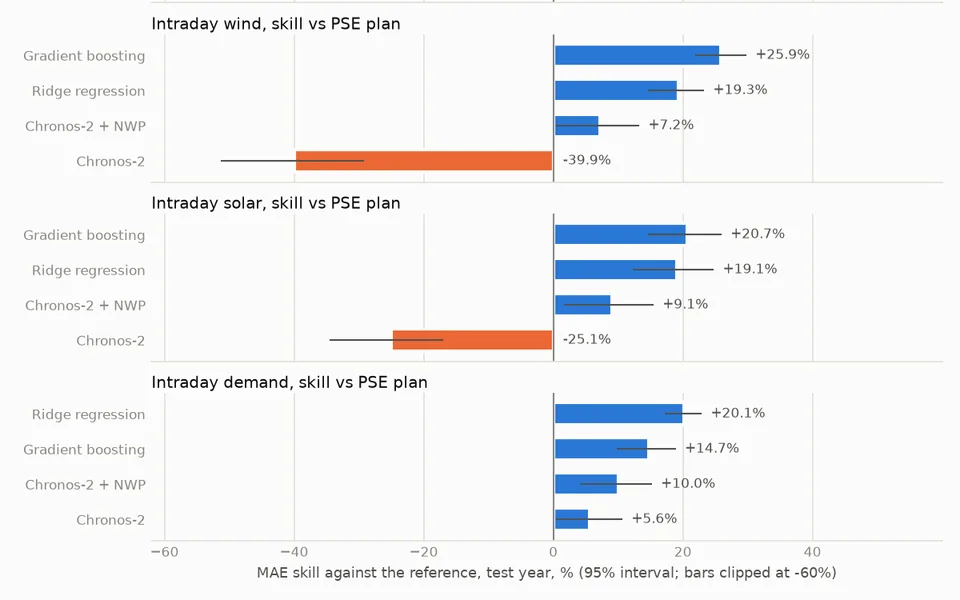
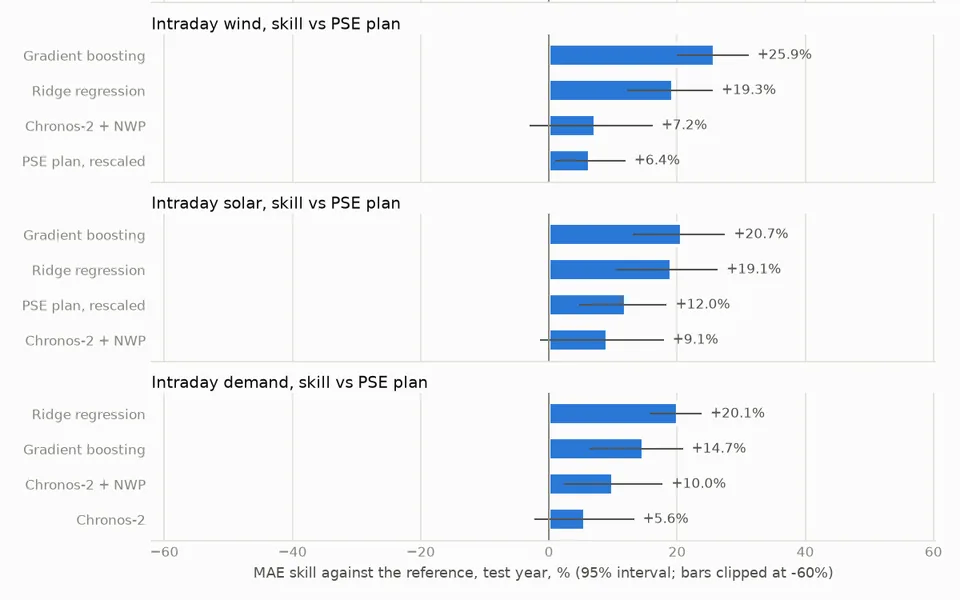
Update six cards and the Start here lines after the review fixes

diff --git a/index.html b/index.html
@@ -147,7 +147,7 @@ td + td { white-space: nowrap; }
       <div class="body">
         <div class="meta"><span class="group g-pv">Solar PV</span><span class="badge">Case study</span></div>
         <h3><a href="case-studies/pv-budget-bridge.html">PV budget bridge: monthly P50 to actual waterfall and sensor QC</a></h3>
-        <p class="owner">Splits every month&#x27;s gap to the P50 budget into kWh by cause (weather, availability, curtailment, soiling, snow, data gaps) and checks the irradiance sensor first; outage and curtailment losses come back within 0.5 % of a known truth.</p>
+        <p class="owner">Splits every month&#x27;s gap to the P50 budget into kWh by cause (weather, availability, curtailment, soiling, snow, data gaps) and checks the irradiance sensor first; a 3-day outage and a binding curtailment injected into real and synthetic plants come back within 1 % and 3-7 % of what was removed.</p>
         <div class="links"><a class="btn primary" href="case-studies/pv-budget-bridge.html">Case study</a><a class="btn" href="https://kwwaleszczynski-del.github.io/pv-budget-bridge/">Live page &#8599;</a><a class="btn" href="https://github.com/kwwaleszczynski-del/pv-budget-bridge">Code</a></div>
       </div>
     </article>
@@ -158,7 +158,7 @@ td + td { white-space: nowrap; }
       <div class="body">
         <div class="meta"><span class="group g-wind">Wind</span><span class="badge">Case study</span></div>
         <h3><a href="case-studies/wind-downtime-availability.html">Wind turbine downtime, causes and availability</a></h3>
-        <p class="owner">Shows that the category a stop is booked under moves warranty availability more than detecting the stop does: grid and curtailment stops booked as turbine faults turn 97.9 % into 93.5 % for one open farm-year.</p>
+        <p class="owner">Shows that one mis-booked farm-wide stop can outweigh all detection error: booking a 15-day park-controller stop as a turbine fault turns 97.9 % into 93.5 % for one open farm-year, while without such an event booking and detection each move warranty availability by about 0.3-1 pp.</p>
         <div class="links"><a class="btn primary" href="case-studies/wind-downtime-availability.html">Case study</a><a class="btn" href="https://kwwaleszczynski-del.github.io/wind-downtime-availability/">Live page &#8599;</a><a class="btn" href="https://github.com/kwwaleszczynski-del/wind-downtime-availability">Code</a></div>
       </div>
     </article>
@@ -169,7 +169,7 @@ td + td { white-space: nowrap; }
       <div class="body">
         <div class="meta"><span class="group g-storage">Storage &amp; markets</span><span class="badge">Case study</span></div>
         <h3><a href="case-studies/bess-ops-warranty.html">Grid battery operations against warranty and LTSA</a></h3>
-        <p class="owner">Checks round-trip efficiency, availability, cycles and capacity tests against warranty and LTSA terms, and shows why the metering point matters: 55 Australian grid batteries convert at about 0.92 but deliver 0.82 at the meter.</p>
+        <p class="owner">Checks round-trip efficiency, availability, cycles and capacity tests against warranty and LTSA terms, and shows why the metering point matters: 55 Australian grid batteries deliver 0.82 round trip at the meter, about 9 pp below the marginal efficiency (0.92) estimated for 34 of them.</p>
         <div class="links"><a class="btn primary" href="case-studies/bess-ops-warranty.html">Case study</a><a class="btn" href="https://kwwaleszczynski-del.github.io/bess-ops-warranty/">Live page &#8599;</a><a class="btn" href="https://github.com/kwwaleszczynski-del/bess-ops-warranty">Code</a></div>
       </div>
     </article>
@@ -180,7 +180,7 @@ td + td { white-space: nowrap; }
       <div class="body">
         <div class="meta"><span class="group g-wind">Wind</span></div>
         <h3><a href="https://kwwaleszczynski-del.github.io/wind-les-gpu/">Kelmarsh wind farm in a laptop-GPU LES</a></h3>
-        <p class="owner">A second opinion on the wake loss in a yield assessment: a home-made LES on a laptop GPU, with no tuned wake parameter, gives 9.8 % against 9.2 % measured in six years of SCADA.</p>
+        <p class="owner">A second opinion on the wake loss in a yield assessment: a home-made LES on a laptop GPU, with no wake constant fitted to the losses, gives 9.8 % against 9.2 % measured in six years of SCADA, and a split by wind speed and turbulence shows how much of that match is averaging.</p>
         <div class="links"><a class="btn primary" href="https://kwwaleszczynski-del.github.io/wind-les-gpu/">Live page &#8599;</a><a class="btn" href="https://github.com/kwwaleszczynski-del/wind-les-gpu">Code</a></div>
       </div>
     </article>
@@ -202,7 +202,7 @@ td + td { white-space: nowrap; }
       <div class="body">
         <div class="meta"><span class="group g-system">Power system &amp; resource</span></div>
         <h3><a href="https://kwwaleszczynski-del.github.io/pl-forecast-bench/">A citable forecast benchmark for the Polish grid</a></h3>
-        <p class="owner">Before paying for a forecast, compare it with the free PSE plan under the same as-of rule: intraday models beat the plan by 20-26 %, but day-ahead nothing that respects the 10:00 issue time beats it for volumes.</p>
+        <p class="owner">Before paying for a forecast, compare it with the free PSE plan under the same as-of rule: intraday models beat PSE&#x27;s day-ahead plan by 10-26 % (10-21 % once its curtailment bias is removed), but day-ahead nothing that respects the 10:00 issue time beats the plan, which is published after the gate.</p>
         <div class="links"><a class="btn primary" href="https://kwwaleszczynski-del.github.io/pl-forecast-bench/">Live page &#8599;</a><a class="btn" href="https://github.com/kwwaleszczynski-del/pl-forecast-bench">Code</a></div>
       </div>
     </article>
@@ -330,7 +330,7 @@ td + td { white-space: nowrap; }
         <div class="meta"><span class="group g-storage">Storage &amp; markets</span><span class="badge">Own method</span></div>
         <h3><a href="https://github.com/kwwaleszczynski-del/bess-ops-warranty">Grid battery operations against warranty and LTSA</a></h3>
         <p class="summary">Monthly warranty and LTSA reporting for an operating grid battery: SoC-corrected round-trip efficiency with and without auxiliaries, time-, capacity- and energy-based availability, rainflow cycles, warranty violations, capacity tests with guard bands, and a benchmark of all 55 grid batteries in Australia&#x27;s NEM validated against ACEN&#x27;s New England BESS data.</p>
-        <p class="highlight">Across 55 NEM batteries conversion RTE is 0.92, but metered RTE is 0.82 median (0.75 for 1 h, 0.88 for 4 h) because of auxiliaries and standby drain; PASA technical availability is 95.8 % median while commercial offered availability is 78.1 %.</p>
+        <p class="highlight">Across 55 NEM batteries the metered round trip is 0.82 median, about 9 pp below the marginal conversion efficiency (0.92) estimated for 34 of them; declared physical availability is 95.8 % median (an upper bound, 24-hour notice), and for the median battery the gap to what is offered is mostly the state of charge.</p>
         <ul class="tags"><li>AEMO NEM</li><li>LTSA / warranty</li><li>RTE &amp; availability</li></ul>
         <div class="links"><a class="btn" href="https://github.com/kwwaleszczynski-del/bess-ops-warranty">Code</a><a class="btn" href="case-studies/bess-ops-warranty.html">Case study</a><a class="btn primary" href="https://kwwaleszczynski-del.github.io/bess-ops-warranty/">Live page &#8599;</a></div>
       </div>
@@ -395,7 +395,7 @@ td + td { white-space: nowrap; }
         <div class="meta"><span class="group g-pv">Solar PV</span><span class="badge">Own method</span></div>
         <h3><a href="https://github.com/kwwaleszczynski-del/pv-budget-bridge">PV budget bridge: monthly P50 to actual waterfall and sensor QC</a></h3>
         <p class="summary">Monthly asset-management bridge from P50 budget to measured production (irradiance, temperature, degradation, soiling, snow, clipping, availability, curtailment, data gaps and unexplained residual), weather-corrected PR, contractual guarantee tests and pyranometer QC, checked on NREL PVDAQ and synthetic Polish plants.</p>
-        <p class="highlight">Recovers injected outages and curtailment within 0.5 % on synthetic truth and flags clock shifts, sensor tilt errors and pyranometer drift across three multi-year NREL PVDAQ rooftops.</p>
+        <p class="highlight">Injected faults on three NREL PVDAQ rooftops and a synthetic Polish plant come back within 1 % for a 3-day inverter outage and within 3-7 % for a binding curtailment, while 2 % soiling remains the hard case; clock shifts, sensor tilt errors and pyranometer drift are flagged first.</p>
         <ul class="tags"><li>IEC 61724-1</li><li>waterfall bridge</li><li>NREL PVDAQ</li></ul>
         <div class="links"><a class="btn" href="https://github.com/kwwaleszczynski-del/pv-budget-bridge">Code</a><a class="btn" href="case-studies/pv-budget-bridge.html">Case study</a><a class="btn primary" href="https://kwwaleszczynski-del.github.io/pv-budget-bridge/">Live page &#8599;</a></div>
       </div>
@@ -486,7 +486,7 @@ td + td { white-space: nowrap; }
         <div class="meta"><span class="group g-wind">Wind</span><span class="badge">Own method</span></div>
         <h3><a href="https://github.com/kwwaleszczynski-del/wind-les-gpu">Kelmarsh wind farm in a laptop-GPU LES</a></h3>
         <p class="summary">A home-made D3Q19 lattice Boltzmann large-eddy simulator in ~550 lines of NVIDIA Warp kernels (regularized collision, Smagorinsky subgrid, log-law wall, actuator disks and precursor turbulence), run across all 72 wind directions on Kelmarsh and compared record-by-record with 6 years of SCADA and PyWake.</p>
-        <p class="highlight">With no parameter fitted to the measured losses the LES predicts 9.79 % farm wake loss against 9.24 % measured in 159,289 SCADA records (sector RMSE 2.2 pp vs 2.6 pp for PyWake Gaussian) in 81 s per wind direction on a 6 GB laptop GPU.</p>
+        <p class="highlight">Pooled farm wake loss 9.8 % against 9.2 % measured in 159,289 SCADA records, as close as the Gaussian model, in 81 s per wind direction on a 6 GB laptop GPU; split by wind speed, turbulence and site-factor choice, the repo shows how much of that match is averaging.</p>
         <ul class="tags"><li>NVIDIA Warp</li><li>Lattice Boltzmann LES</li><li>Kelmarsh SCADA</li></ul>
         <div class="links"><a class="btn" href="https://github.com/kwwaleszczynski-del/wind-les-gpu">Code</a><a class="btn primary" href="https://kwwaleszczynski-del.github.io/wind-les-gpu/">Live page &#8599;</a></div>
       </div>
@@ -512,7 +512,7 @@ td + td { white-space: nowrap; }
         <div class="meta"><span class="group g-wind">Wind</span></div>
         <h3><a href="https://github.com/kwwaleszczynski-del/wind-downtime-availability">Wind turbine downtime, causes and availability</a></h3>
         <p class="summary">Stops, deratings and curtailment found in 10-minute SCADA without status codes (rules, power-curve residual, pitch / rotor-speed signature, HMM, gradient boosting), classified into IEC 61400-26 categories, priced in lost energy and turned into time- and energy-based availability on three open farms, with a CLI for any farm&#x27;s long-format SCADA.</p>
-        <p class="highlight">The pitch / rotor-speed signature finds stops with F1 0.80-0.91 without training, while the usual &quot;power ≤ 0&quot; rule raises 4,833 alarms for 1,412 logged stops; booking grid and curtailment stops as turbine faults cuts warranty availability from 97.9 % to 93.5 %.</p>
+        <p class="highlight">The pitch / rotor-speed signature finds stops with F1 0.80-0.91 without training (0.68-0.72 under a strict overlap rule), while the usual &quot;power ≤ 0&quot; rule raises 4,833 alarms for 1,412 logged stops; one mis-booked 15-day farm-wide stop moves a farm-year&#x27;s warranty availability by 4.1 pp, more than all detection error.</p>
         <ul class="tags"><li>IEC 61400-26</li><li>outage detection</li><li>gradient boosting</li></ul>
         <div class="links"><a class="btn" href="https://github.com/kwwaleszczynski-del/wind-downtime-availability">Code</a><a class="btn" href="case-studies/wind-downtime-availability.html">Case study</a><a class="btn primary" href="https://kwwaleszczynski-del.github.io/wind-downtime-availability/">Live page &#8599;</a></div>
       </div>
@@ -680,8 +680,8 @@ td + td { white-space: nowrap; }
       <div class="body">
         <div class="meta"><span class="group g-system">Power system &amp; resource</span></div>
         <h3><a href="https://github.com/kwwaleszczynski-del/pl-forecast-bench">A citable forecast benchmark for the Polish grid</a></h3>
-        <p class="summary">Wind, solar, demand and day-ahead price forecasts for Poland at 15-minute resolution, day-ahead (issued at 10:00 on D-1) and intraday, with fixed data, splits and metrics and a strict as-of rule enforced by leakage tests; eleven reference models from persistence and the PSE plan to gradient boosting and zero-shot Chronos, TimesFM and Toto foundation models, with a public leaderboard, a monthly live track and a Zenodo DOI.</p>
-        <p class="highlight">Intraday models beat the PSE plan by 20-26 %; day-ahead nothing that respects the 10:00 issue time beats it for volumes, and the price is the one task a foundation model wins (Chronos-2 with weather covariates, 88.5 PLN/MWh MAE, 9 % better than gradient boosting).</p>
+        <p class="summary">Wind, solar, demand and day-ahead price forecasts for Poland at 15-minute resolution, day-ahead (issued at 10:00 on D-1) and intraday, with fixed data, splits and metrics and a strict as-of rule enforced by leakage tests; eleven reference models from persistence and the PSE plan to gradient boosting and zero-shot Chronos, TimesFM and Toto foundation models, with a public leaderboard, a monthly hindcast and a Zenodo DOI.</p>
+        <p class="highlight">Intraday models beat PSE&#x27;s day-ahead plan by 10-26 % (10-21 % against the plan rescaled for its curtailment bias); day-ahead the plan, published after the gate, stays ahead, and the price is the one task a foundation model wins (Chronos-2 with weather covariates, 88.5 PLN/MWh MAE, 9 % better than gradient boosting).</p>
         <ul class="tags"><li>forecasting benchmark</li><li>Chronos / TimesFM / Toto</li><li>PSE</li></ul>
         <div class="links"><a class="btn" href="https://github.com/kwwaleszczynski-del/pl-forecast-bench">Code</a><a class="btn primary" href="https://kwwaleszczynski-del.github.io/pl-forecast-bench/">Live page &#8599;</a></div>
       </div>
@@ -772,7 +772,7 @@ td + td { white-space: nowrap; }
         <div class="meta"><span class="group g-tools">Open-source tools</span></div>
         <h3><a href="https://github.com/kwwaleszczynski-del/res-asset-kpi">res-asset-kpi: KPI library for PV, wind and BESS</a></h3>
         <p class="summary">An open-source Python library on PyPI, with a Zenodo DOI, for the indicators asset managers report every month: PR and weather-corrected PR, contract availability for PV, wind (IEC 61400-26 categories) and batteries, the budget-to-actual energy bridge, power curves and AEP, MTBF/MTTR and Crow-AMSAA, SoC-corrected round-trip efficiency, cycles, capacity tests with uncertainty and contract damages set in YAML.</p>
-        <p class="highlight">Extracted from six analysis projects and reproducing their results exactly (41 checks over about a million values, largest relative difference 1.3e-13); a hand-worked test for every formula, Hypothesis property tests, mypy strict, CI on Python 3.11-3.13.</p>
+        <p class="highlight">Extracted from six analysis projects and checked against their pre-migration code (41 regression checks over about a million values, largest relative difference 1.3e-13); a hand-worked test for every formula, Hypothesis property tests, mypy strict, CI on Python 3.11-3.13.</p>
         <ul class="tags"><li>PyPI package</li><li>IEC 61724-1 / 61400-26</li><li>asset management</li></ul>
         <div class="links"><a class="btn" href="https://github.com/kwwaleszczynski-del/res-asset-kpi">Code</a><a class="btn primary" href="https://kwwaleszczynski-del.github.io/res-asset-kpi/">Docs &#8599;</a></div>
       </div>

diff --git a/case-studies/wind-downtime-availability.html b/case-studies/wind-downtime-availability.html
@@ -130,7 +130,7 @@ td + td { white-space: nowrap; }
     <ul class="kpis"><li><b>97.9 % to 93.5 %</b><span>one farm-year&#x27;s warranty availability when grid and curtailment stops are booked as turbine faults</span></li><li><b>EUR 0.23 m</b><span>liquidated damages that would follow at a 97 % guarantee, but are not owed</span></li><li><b>0.5-1.0 pp</b><span>mean error of availability from SCADA signals alone against the operator&#x27;s logs, per turbine-year</span></li></ul>
   </header>
   <figure>
-    <img src="../img/case-wind-downtime-availability.png" alt="Change of the time-based warranty availability when stops are booked under the wrong category (test years: Kelmarsh 2020-2021, Penmanshiel 2020)." width="935" height="374">
+    <img src="../img/case-wind-downtime-availability.png" alt="Change of the time-based warranty availability when stops are booked under the wrong category (test years: Kelmarsh 2020-2021, Penmanshiel 2020)." width="935" height="396">
     <figcaption>Change of the time-based warranty availability when stops are booked under the wrong category (test years: Kelmarsh 2020-2021, Penmanshiel 2020).</figcaption>
   </figure>
 
@@ -169,7 +169,7 @@ td + td { white-space: nowrap; }
 
   <footer>
     <p>Personal work on public data; the data sources are credited in the project's repository. Every number on
-    this page is taken from the repository's README and result files. Updated 31 Oct 2026.</p>
+    this page is taken from the repository's README and result files. Updated 12 Nov 2026.</p>
   </footer>
 </div>
 </body>

diff --git a/case-studies/bess-ops-warranty.html b/case-studies/bess-ops-warranty.html
@@ -130,7 +130,7 @@ td + td { white-space: nowrap; }
     <ul class="kpis"><li><b>0.92 vs 0.82</b><span>median conversion efficiency against round-trip efficiency at the meter, 55 NEM batteries</span></li><li><b>7.3 pp</b><span>daily RTE gap between the operator&#x27;s own meter and the market SCADA point at one battery</span></li><li><b>95.8 % vs 78.1 %</b><span>median technical against offered availability, 38 batteries in service</span></li></ul>
   </header>
   <figure>
-    <img src="../img/case-bess-ops-warranty.png" alt="New England BESS, section 1: daily RTE from the operator&#x27;s own data (A) and from market data (B, C). The gap between A and B is the metering point." width="998" height="412">
+    <img src="../img/case-bess-ops-warranty.png" alt="New England BESS, section 1: daily RTE from the operator&#x27;s own data (A) and from market data (B, C). The gap between A and B is the metering point." width="1063" height="459">
     <figcaption>New England BESS, section 1: daily RTE from the operator&#x27;s own data (A) and from market data (B, C). The gap between A and B is the metering point.</figcaption>
   </figure>
 
@@ -169,7 +169,7 @@ td + td { white-space: nowrap; }
 
   <footer>
     <p>Personal work on public data; the data sources are credited in the project's repository. Every number on
-    this page is taken from the repository's README and result files. Updated 31 Oct 2026.</p>
+    this page is taken from the repository's README and result files. Updated 12 Nov 2026.</p>
   </footer>
 </div>
 </body>

diff --git a/case-studies/pv-budget-bridge.html b/case-studies/pv-budget-bridge.html
@@ -169,7 +169,7 @@ td + td { white-space: nowrap; }
 
   <footer>
     <p>Personal work on public data; the data sources are credited in the project's repository. Every number on
-    this page is taken from the repository's README and result files. Updated 31 Oct 2026.</p>
+    this page is taken from the repository's README and result files. Updated 12 Nov 2026.</p>
   </footer>
 </div>
 </body>
